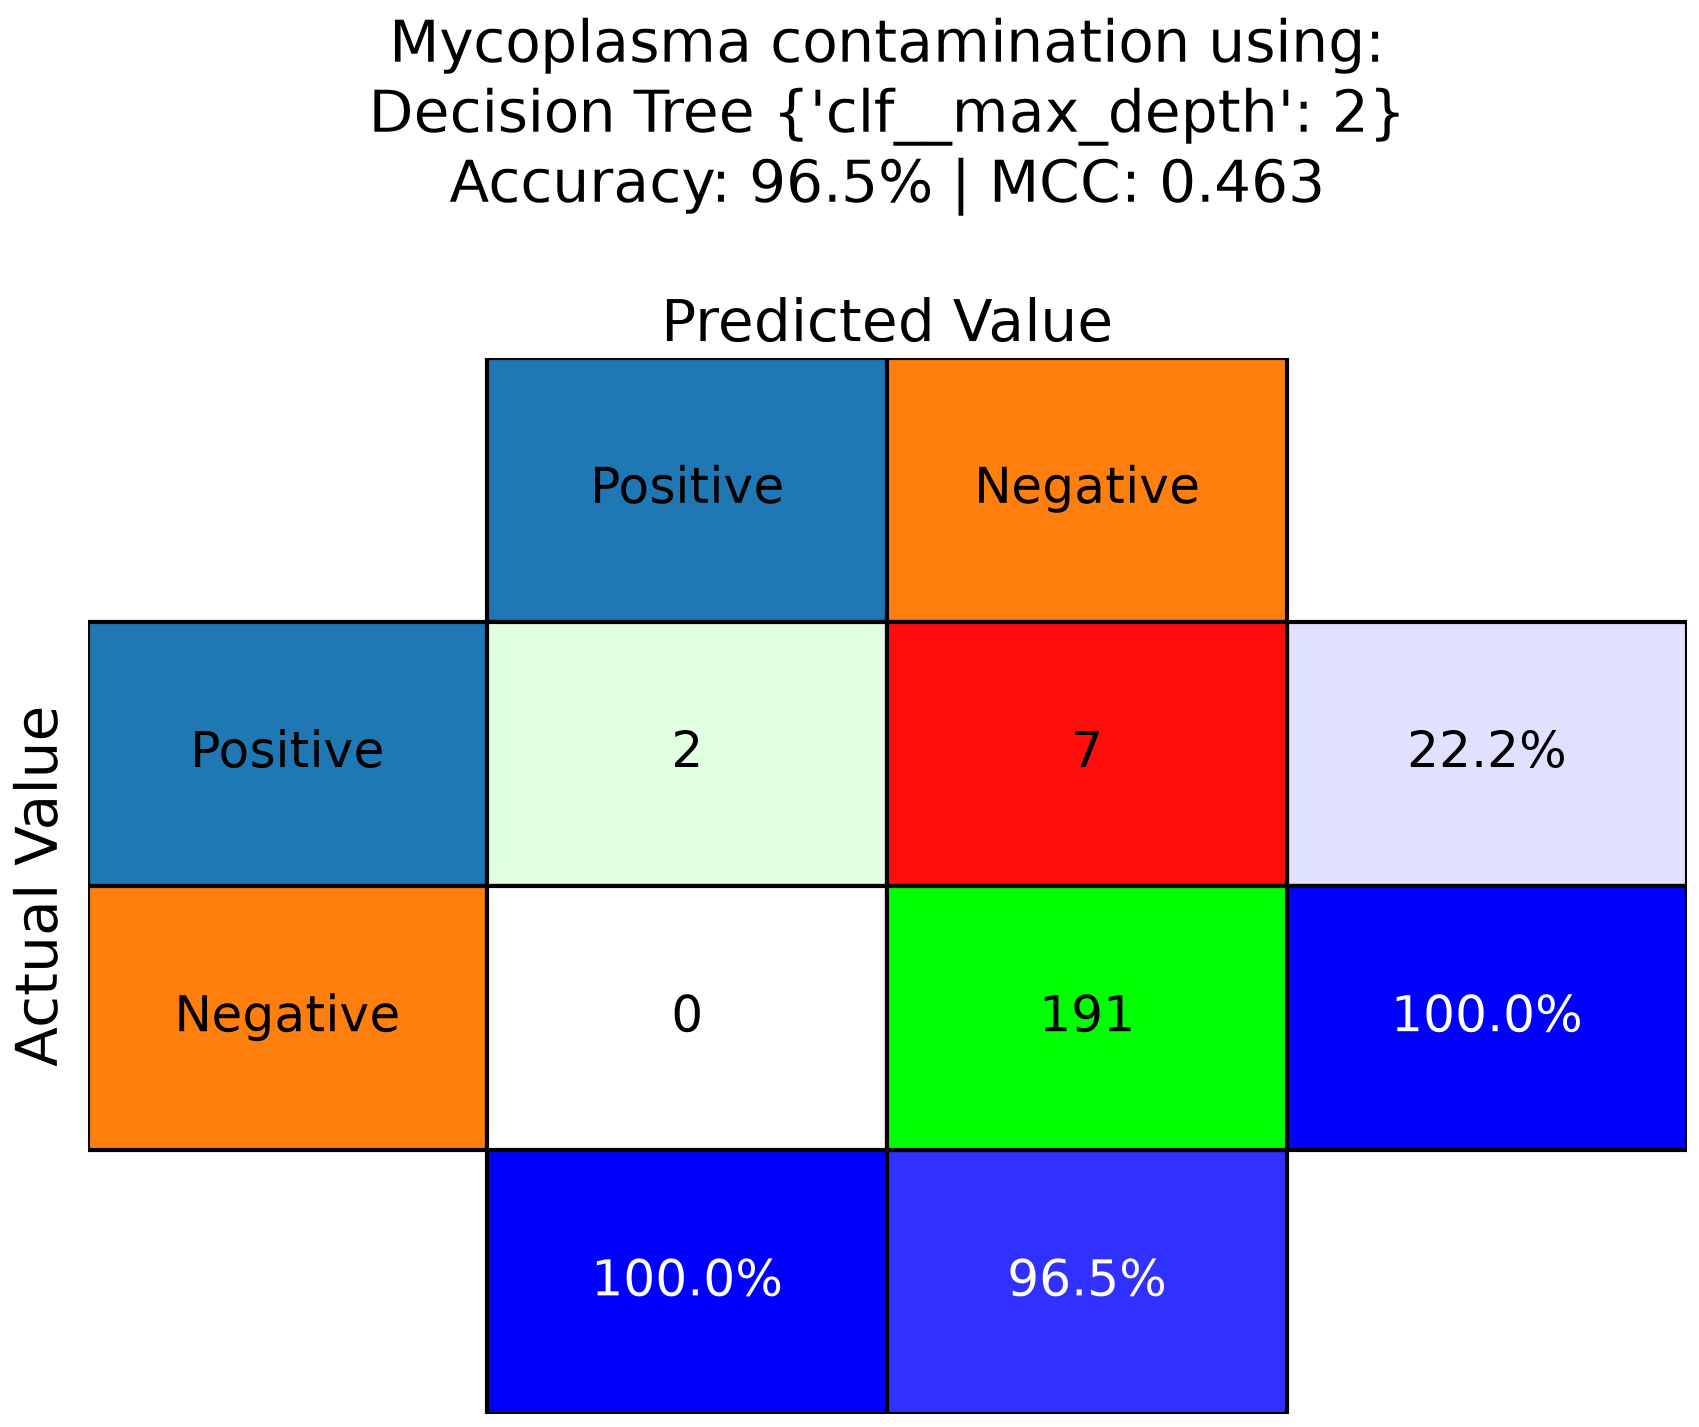
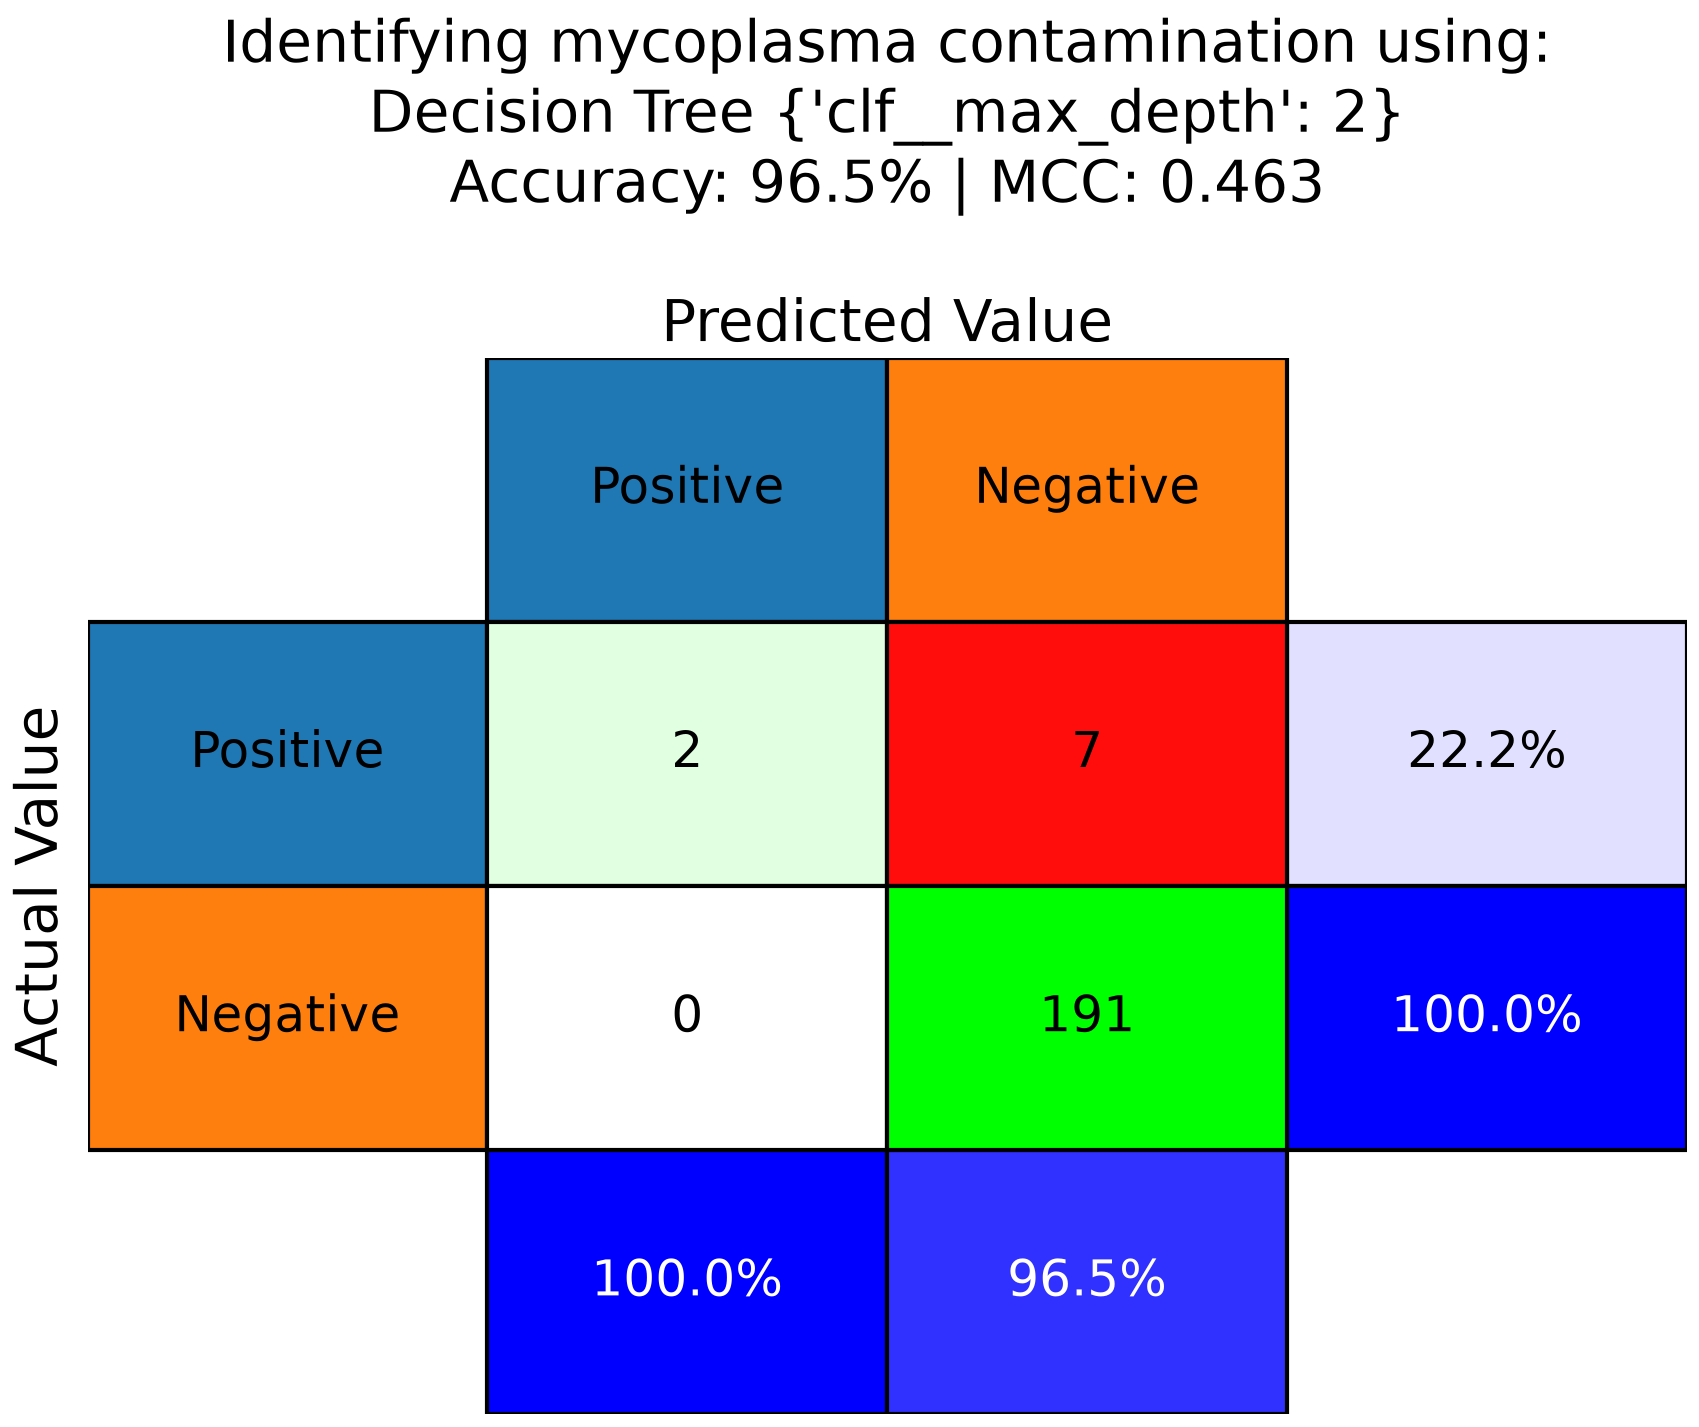
Added Unit 9 > Main 2

Changed region(s): [[0.1248, 0.0, 0.9046, 0.0617]]

diff --git a/units/unit_09/main_02_multiclass_classification.py b/units/unit_09/main_02_multiclass_classification.py
@@ -1,0 +1,49 @@
+import os
+
+import pandas as pd
+from sklearn.metrics import accuracy_score, matthews_corrcoef
+from sklearn.model_selection import train_test_split
+
+from units.unit_09.src.functions import generate_model_dictionary, plot_confusion_matrix
+
+df = pd.read_csv(os.path.join("datasets", "dataset_wine.csv"))
+
+features = df.columns[1:]
+target = df.columns[0]
+
+x = df.loc[:, features].to_numpy()
+y = df.loc[:, target].to_numpy()
+
+x_train, x_test, y_train, y_test = train_test_split(x, y, test_size=0.2, stratify=y, random_state=1)
+
+model_dict = generate_model_dictionary()
+
+best_classifier = None
+best_score = None
+for classifier in model_dict.keys():
+    model = model_dict[classifier]
+    model.fit(x_train, y_train)
+    score = model.best_score_
+
+    print(f"{classifier:25s} | Accuracy (Valid): {score:6.1%} | {model.best_params_}")
+    if (best_score is None) or (score > best_score):
+        best_classifier = classifier
+        best_score = score
+
+model = model_dict[best_classifier]
+y_pred = model.predict(x_test)
+
+acc = accuracy_score(y_test, y_pred)
+mcc = matthews_corrcoef(y_test, y_pred)
+
+print()
+print("Best model:")
+print(f"{best_classifier:25s} | Accuracy  (Test): {acc:.1%} | MCC (Test): {mcc:.3f} | {model.best_params_}")
+print()
+
+plot_confusion_matrix(
+    y_true=y_test,
+    y_pred=model.predict(x_test),
+    title=f"Wine identification using:\n{best_classifier} {model.best_params_}\nAccuracy: {acc:.1%} | MCC: {mcc:.3f}",
+    filepath=os.path.join("figures", f"figure_02.png")
+)

diff --git a/units/unit_09/main_01_binary_classification.py b/units/unit_09/main_01_binary_classification.py
@@ -44,6 +44,6 @@ print()
 plot_confusion_matrix(
     y_true=y_test,
     y_pred=model.predict(x_test),
-    title=f"Mycoplasma contamination using:\n{best_classifier} {model.best_params_}\nAccuracy: {acc:.1%} | MCC: {mcc:.3f}",
+    title=f"Identifying mycoplasma contamination using:\n{best_classifier} {model.best_params_}\nAccuracy: {acc:.1%} | MCC: {mcc:.3f}",
     filepath=os.path.join("figures", f"figure_01.png")
 )
